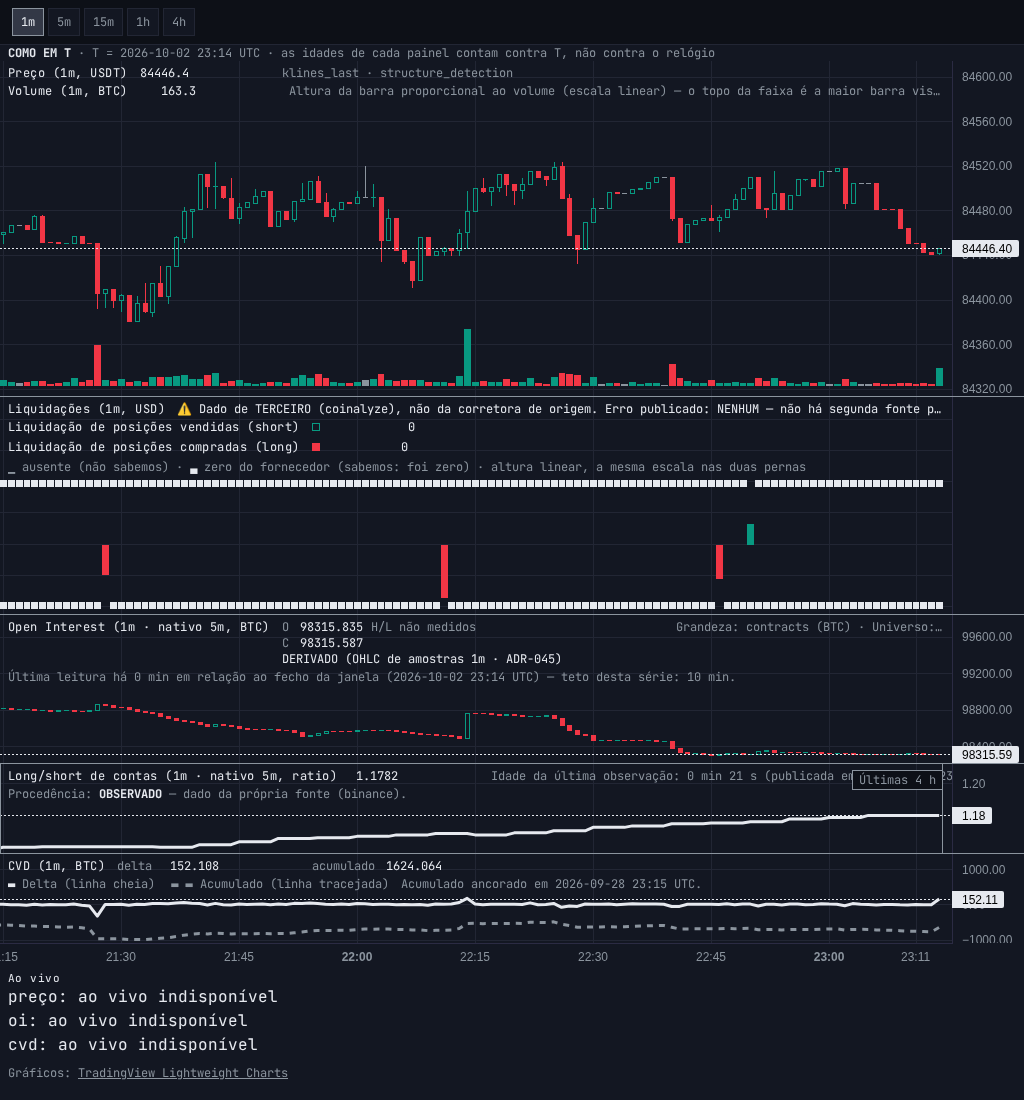
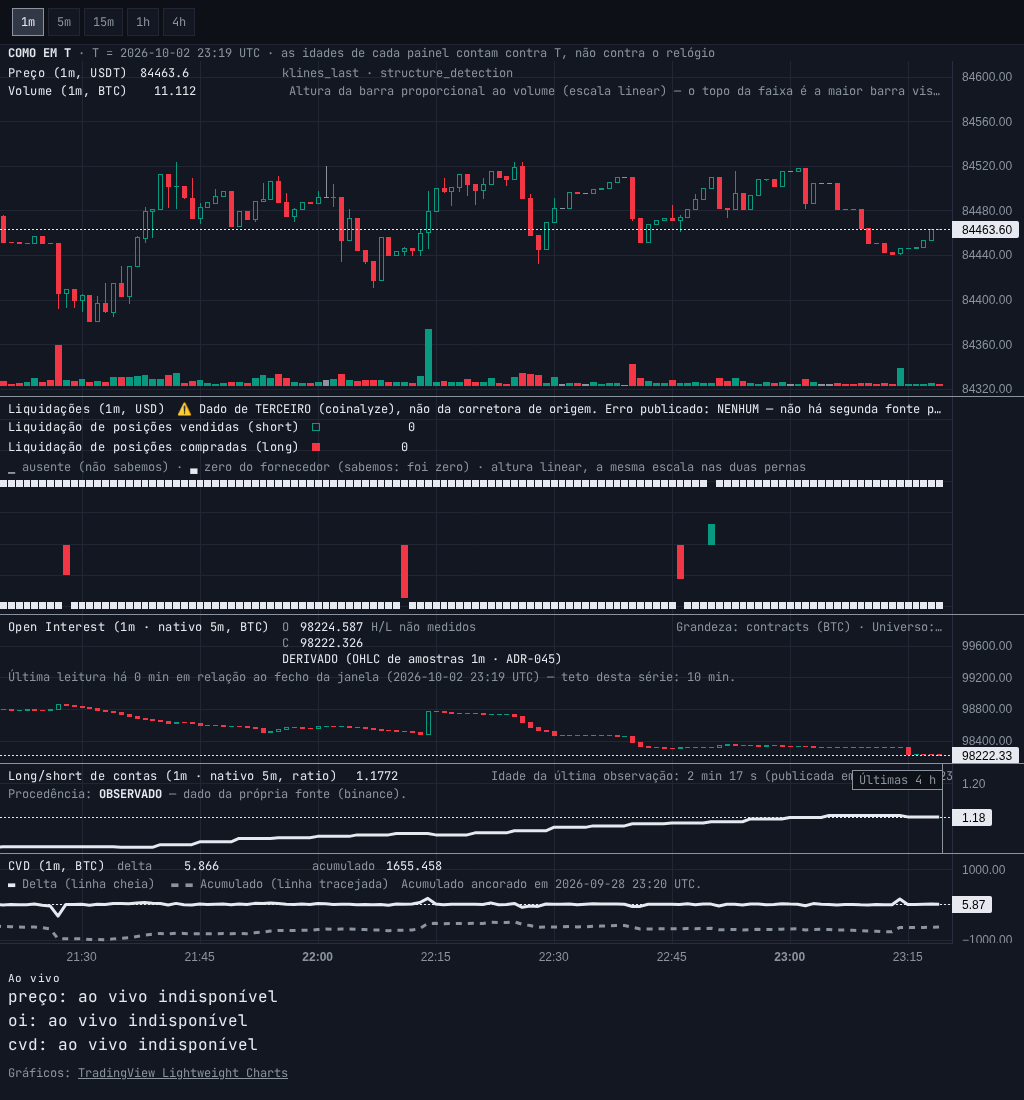
docs(paineis-de-fluxo): T-05.6 — gate do builder BLOQUEADO: make verify vermelho só no e2e/40 C-3 (A-5), regressão do cabeçalho do N-2 provada por ablação; telas de 1m refeitas; linha no INDEX

diff --git a/docs/context/paineis-de-fluxo/gates/T-05.6-build.md b/docs/context/paineis-de-fluxo/gates/T-05.6-build.md
@@ -1,0 +1,131 @@
+# T-05.6 — gate do builder (correção curta dos achados não bloqueantes da W7)
+
+```
+[QA GATE — Fase 05: correção curta dos achados não bloqueantes da W7 (T-05.6)]
+Feature: paineis-de-fluxo     Componente: web (+ infra, só comentário em deploy/compose.yml)
+Branch: task/T-05.6 — código em 6fdcdfa; este relatório e as telas de 1m refeitas no commit seguinte
+Escopo: handoff/T-05.6-escopo.md (N-1, N-2, R-1, R-2, R-7, W-1)
+```
+
+## Arquivos alterados (`git diff --stat d2055d9..6fdcdfa` → 23 arquivos, +590/−141)
+
+- `frontend/src/app/symbol/long-short-band.ts` (modified) — régua exclusiva, faixa por barras inteiras, recorte ao plot
+- `frontend/src/app/symbol/SymbolClient.tsx` (modified) — `LongShortRecentBand`: lado recortado sem borda, etiqueta ancorada à direita
+- `frontend/src/app/symbol/pane-legend.ts` (modified) — `paneHeadingLabel` / `resolvePaneHeadings` (cabeçalho com o TF)
+- `frontend/src/app/symbol/panel-assembly.ts` (modified) — comentário em inglês (R-7)
+- `deploy/compose.yml` (modified) — comentário traduzido (W-1)
+- `frontend/e2e/14-long-short-dado-real.spec.ts` (modified) — C-1 sem flake (R-2)
+- `frontend/e2e/41-band-tag-and-timeframe-heading.spec.ts` (new) — etiqueta dentro do plot e cabeçalho com o TF
+- testes node: `long-short-band.test.ts`, `long-short-pane-design-contract.test.ts`, `long-short-pane-dom-contract.test.ts`, `oi-pane-dom-contract.test.ts`, `pane-legend.test.ts`, `panel-assembly.test.ts` (modified)
+- `docs/context/paineis-de-fluxo/gates/t05-6-screens/*.png` — 7 telas (as 2 de 1m refeitas com o build final)
+
+## Item a item
+
+| id | achado | o que mudou | prova |
+|---|---|---|---|
+| **R-1** | faixa cobria 4 h + 1 passo (2 barras em 4h, 5 em 1h) | régua **exclusiva à esquerda**: `slot.time > last − span` ⇒ `span/step` barras (1m=240, 1h=4, 4h=1). Faixa e rodapé usam a **mesma** função (`insideRecentBand`); a faixa é nula com 1 slot ou com step > span | `long-short-band.test.ts`; `e2e/14` C-1 contra o app real: 1h faixa 164/167 (n=4), 4h 41/41 (n=1); 1m `5520/5759` = **240** barras (medição abaixo) |
+| **N-1** | etiqueta `Últimas 4 h` cortada (`Última`) em 4h e invadindo a escala a 1024/1h | faixa cobre **barras inteiras** (centro ± meio espaçamento; `logicalToCoordinate` devolve 0 para lógico fracionário na lib 5.2.1), **recortada ao plot** (`timeScale.width()`); o lado cortado pela borda do plot **não desenha borda**; a etiqueta fica **pendurada na borda direita da faixa** (`-right-px`) e cresce para a esquerda | `e2e/41` 7/7; medidas de borda abaixo |
+| **N-2** | cabeçalho dizia `(1m, …)` com TF 1h ativo | `Preço (1h · nativo 1m, USDT)`; igual ao antigo quando TF = cadência nativa; `legend.label` (invariante iv) intocado | `pane-legend.test.ts`, `e2e/41` |
+| **R-2** | assert de e2e reprova quando o dado é esparso (flake) | igualdade rodapé = legíveis da faixa **sempre** afirmada (0 ⇒ `absent`); falta de discriminação vira anotação `non-discriminating`, não reprovação | `e2e/14` |
+| **R-7** | comentário novo em português | traduzido | `panel-assembly.ts:311` |
+| **W-1** | comentário em português em `deploy/compose.yml:259-268` | traduzido, mantendo os números e `[MEDIDO 2026-10-02, gates/T-05.3-build.md]` | diff |
+
+## A escolha de N-1 / R-1 — proposta do builder para o gate de design
+
+**Escolha:** régua exclusiva (`span/step` barras) + etiqueta pendurada na borda direita da faixa, crescendo
+para a esquerda sobre o plot; o lado que a borda do plot recorta não desenha borda.
+**Porquê:** uma regra só em todos os TFs, sem medir texto; a borda direita da faixa é ≤ a borda do plot
+**por construção** (`clampBandToPlot`), então a etiqueta não alcança a escala de preço em nenhum TF/largura.
+⚠ Decisão de UI é do `ui-designer` com o gate `ux-ui-mastery` (`handoff/T-05.6-escopo.md`, CLAUDE.md
+§Design) — **este relatório registra a proposta; o veredito do gate não existe ainda.**
+
+### Medidas de borda — app real (`next start` da worktree → API `localhost:8000`), BTCUSDT
+
+| largura/TF | etiqueta (px, esq→dir) | borda do plot | visível | origem |
+|---|---|---|---|---|
+| 1024 / 1h | 844 → 935 | 944 | 91/91 | `[MEDIDO 2026-10-02, builder 1, handoff/T-05.6-estado.md]` |
+| 1024 / 4h | 830 → 921 | 944 | 91/91 | idem |
+| 1280 / 1h | 1098 → 1189 | 1200 | 91/91 | idem |
+| 1280 / 4h | 1080 → 1171 | 1200 | 91/91 | idem |
+| 1024 / 1m | 852,1 → 943,1 | 952 (`data-recent-band-plot-width-px`) | 91/91 | `[MEDIDO 2026-10-02 23:19 UTC, build de 6fdcdfa]` |
+| 1280 / 1m | 1106 → 1197 | 1208 | 91/91 | idem |
+
+Em **1m** (refeito depois do ajuste "lado recortado sem borda"): `data-fact=long_short_recent_band:5520/5759`
+(240 barras), `data-recent-band-clipped=left`, `border-left-width: 0px`, `border-right-width: 1px`; a borda
+direita da faixa coincide com a borda direita da etiqueta (943 / 1197), ≤ plot (952 / 1208). Cabeçalho:
+`Long/short de contas (1m · nativo 5m, ratio)`. Telas: `t05-6-screens/t05-6-n1-{1024,1280}-1m.png`.
+Comando: script Playwright ad hoc (`chromium`, viewport `{w}×1100`, `waitUntil: networkidle` + 2,5 s),
+lendo `getComputedStyle`/`getBoundingClientRect` do `[data-fact^="long_short_recent_band:"]` e do
+`[data-recent-band-label]`. ⚠ Nesse script a troca de TF por `?tf=`/botão **não pegou** (as linhas 1h/4h
+saíram idênticas às de 1m) — por isso só as linhas de 1m são desta rodada; as de 1h/4h vêm do builder 1.
+
+## Mutantes — `[MEDIDO 2026-10-02, builder 1, handoff/T-05.6-estado.md]`
+
+3 mutantes aplicados juntos: (a) etiqueta `left-2` (o desenho antigo), (b) cabeçalho sem o TF, (c) corte
+`>=` (régua inclusiva, o R-1 de volta).
+- `npm --prefix frontend run test:app` → **12 testes reprovam**.
+- e2e: **8 de 9 reprovam**; o que passa é o caso CALA de 1m (lá inclusiva e exclusiva divergem só na barra
+  241, fora do plot — esperado).
+- Mutante `left-2` isolado contra o app real: 1280/4h etiqueta visível **75,7/91 px** (= `Última`, o
+  defeito original reproduzido).
+
+## Comandos rodados (literais) e resultado
+
+- `npm --prefix frontend run test:app` → 704/704 `[MEDIDO, builder 1]`; `npm --prefix frontend run lint` rc=0; `tsc --noEmit` limpo.
+- `find . -name __pycache__ -type d -not -path './frontend/node_modules/*' -prune -exec rm -rf {} +` e depois
+  `E2E_API_PORT=8801 E2E_NEXT_PORT=4301 make verify` → **VERMELHO** (rc=2), log
+  `/tmp/verify-t05-6-20261002T233054Z.log`:
+  `lint-frontend` OK · `test-frontend` OK 1273 pass/0 fail (4 suítes) · `test` OK 3476 passed, cobertura
+  96,90% · `boundaries` OK 7 kept/0 broken · `regras` OK 0 bloqueio/77 avisos · `política` OK ·
+  **`e2e` FALHA 113 passed / 2 failed / 14 skipped**. `e2e/20` dentro do teto (apply p50 38,1 ms, máx 45 ms, n=15).
+
+## ⛔ BLOQUEIO — regressão causada pelo N-2, e resolvê-la é decisão de design
+
+**As 2 falhas:** `e2e/40` `C-3 at 1024x768` e `C-3 at 1240x800` (texto mais longo, TF 1h), assert **A-5**:
+`"(escala linear)": only 66.5 of 105.0 px visible` (1024) e `93.5 of 105.0` (1240).
+
+**Causa, provada por ablação:** com `paneHeadingLabel` devolvendo só a identidade (o N-2 desligado),
+`playwright test e2e/40 --grep 'C-3 at'` → **4/4 passam**; com o N-2 → **2 reprovam**, determinístico em
+2 rodadas `[MEDIDO 2026-10-02, e2e-env próprio 8801/4301]`. O cabeçalho `Volume (1h · nativo 1m, BTC)`
+acrescenta `1h · nativo ` (12 caracteres) e empurra a coluna lateral da legenda do pane de preço de x=282
+para x=371 (**+89 px**, ~7,4 px/caractere), e `Altura da barra … (escala linear)` passa a ser cortada
+(tela do caso: `c3-1024x768.png` no scratchpad, não versionada).
+
+**O espaço que sobra** `[INFERRED: 89 px − déficit medido; largura por caractere derivada do mesmo deslocamento]`:
+~**50 px** a 1024 (≈ 6 caracteres) e ~**77 px** a 1240 (≈ 10). Nenhuma das duas sugestões do
+`W7-DESIGN-REVIEW` cabe a 1024: `1h · nativo 1m` acrescenta 12 caracteres, `nativo 1m` acrescenta 7.
+
+**Por que o builder NÃO escolheu outra redação:** são dois veredictos de design em conflito — a sugestão
+do N-2 (`W7-DESIGN-REVIEW`) contra o espaço da legenda que o gate da `T-05.4` fixou (A-5). Escolher entre
+eles é do `ui-designer` com o `ux-ui-mastery`. Alternativas medidas para ele, com o custo:
+1. `Preço 1h (1m, USDT)` — +3/+4 caracteres (folga ~28/~20 px a 1024 em 1h/15m); a cadência nativa fica
+   sem a palavra `nativo`.
+2. `Preço (1h ← 1m, USDT)` — +5/+6 (folga ~13/~6 px); o glifo carrega o sentido sozinho.
+3. Manter `1h · nativo 1m` e mudar o layout da legenda (coluna lateral quebrando linha) — mexe na área de
+   dado que o A-4 mede.
+4. TF só no botão (reverter o N-2) — o defeito do N-2 volta.
+
+## Pré-existente, fora do escopo
+
+`e2e/14`, teste de contagem de barras (linha ~473), reprova em `ceil(wire/5)` — **pré-existente no master**
+(`782291f`, registrado pelo `W7-QA-FRONT`).
+
+## Doc delta
+
+- `docs/INDEX.md`: linha acrescentada (append-only).
+- `docs/product/STITCH_CONTEXT.md` / `DESIGN_SYSTEM.md`: **sem mudança** — nenhum token novo; a mudança
+  visual (etiqueta à direita, lado recortado sem borda) é **proposta** ao `ui-designer` acima, e só vira
+  contexto de design depois do veredito do `ux-ui-mastery`.
+- ADR: não necessário — régua e posição de etiqueta são detalhe de componente, não fronteira.
+
+## Validação ao vivo
+
+Sem servidor `mcp__playwright__*` nesta instalação; as telas e medidas vêm de Playwright como biblioteca
+contra o app real (`next start` em porta própria, parado com `kill` no pid ao fim).
+
+## Pendente (nomeado)
+
+- Veredito do gate de design (`ux-ui-mastery`) sobre a escolha N-1/R-1 — despacho do orquestrador.
+- **Redação do N-2 que caiba no espaço do A-5** (bloqueio acima) — `ui-designer` + `ux-ui-mastery`;
+  depois dela, um builder ajusta `paneHeadingLabel`, `pane-legend.test.ts` e `e2e/41`, e o `make verify`
+  é refeito. **A T-05.6 não fecha antes disso.**

diff --git a/docs/INDEX.md b/docs/INDEX.md
@@ -417,3 +417,4 @@ evento de ledger correspondente.
 | 2026-10-02T21:25Z | `paineis-de-fluxo` | builder de front (`T-05.1-R1`, componente `web`) | **C-1 do `W7-CODE-REVIEW` consertado: `recentStats` do long/short corta no último slot do eixo por `recentBandSlots` (`long-short-band.ts`), a mesma régua da faixa, em `page.tsx` e `panel-assembly.ts`; `slotsFrom` removida. MORDE em node (4h 1≠2, 1h 4≠5) e no `e2e/14` contra o app real; CALA em 1m (241=241). `make verify`: 7 portões OK, e2e NÃO MEDIU (porta tomada por outro verify):** [`gates/T-05.1-R1-build.md`](context/paineis-de-fluxo/gates/T-05.1-R1-build.md) |
 | 2026-10-02T22:10Z | `paineis-de-fluxo` | `frontend-qa` (W7, fase `05`: `T-05.1`, `T-05.4`, `T-05.1-R1`) | **QA de front da wave W7: APPROVED.** `make verify` VERDE em `acce0b3` (portas 8871/4371; front 1263/0, 3476 passed, 96,90%, e2e 108 passed/14 skipped, `e2e/20` máx 127,4 ms). 21 mutações/ablações, 20 reprovam (U1 equivalente; U4 ganhou teste). Sondas contra o app real: troca de TF no meio do arrasto, página em voo, resize em 4h, duas páginas de 4h (126/126). `e2e/14` bar count em 1m é pré-existente no master (dado: publicação de 85 slots) | [`gates/W7-QA-FRONT.md`](context/paineis-de-fluxo/gates/W7-QA-FRONT.md) |
 | 2026-10-02T22:10Z | `paineis-de-fluxo` | orquestrador (fechamento da wave `W7`, fase `05`) | **Wave W7: T-05.1 a T-05.4 + T-05.1-R1 integradas; QA APPROVED e REVIEW COMPLIANT no ledger da fase 05**, code-review APPROVED (re-validação @782291f), design-review APPROVED 80/100. T-05.5 (veredito sobre a tela real) e os DoD 2/3 em dado real ficam para depois do deploy local; fase 06 só em documento. Gates: `gates/W7-*.md`. |
+| 2026-10-02T23:55Z | `paineis-de-fluxo` | builder de front (`T-05.6`, componentes `web`/`infra`) | **Gate do builder da T-05.6: BLOQUEADO.** N-1, R-1, R-2, R-7 e W-1 feitos com teste que morde; telas de 1m refeitas com o build final (faixa 240 barras, lado recortado sem borda, etiqueta dentro do plot). `make verify` VERMELHO só no `e2e`: 113 passed / 2 failed — `e2e/40` C-3 a 1024 e 1240 (A-5, `(escala linear)` cortada), causado pelo cabeçalho do N-2 (`1h · nativo 1m`), provado por ablação (4/4 passam sem ele). A redação que caiba é decisão do `ui-designer` + `ux-ui-mastery`; 4 alternativas medidas no relatório. Relatório: `docs/context/paineis-de-fluxo/gates/T-05.6-build.md`. |
